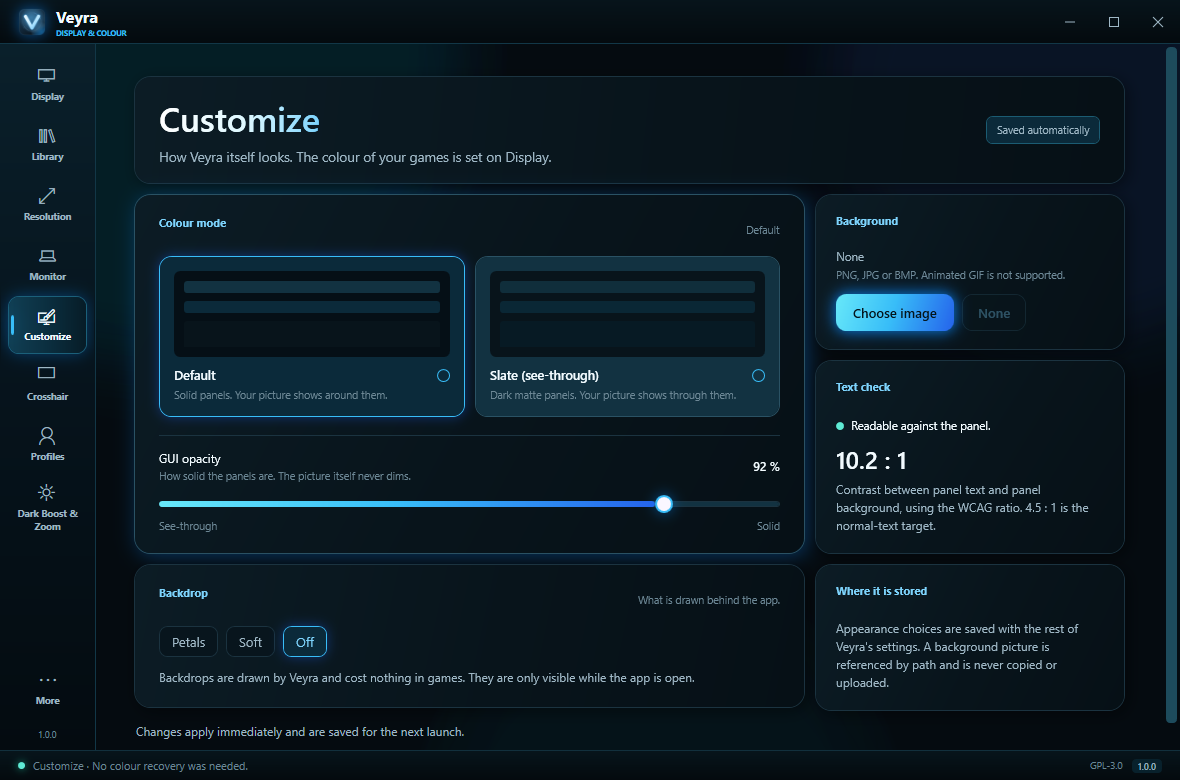
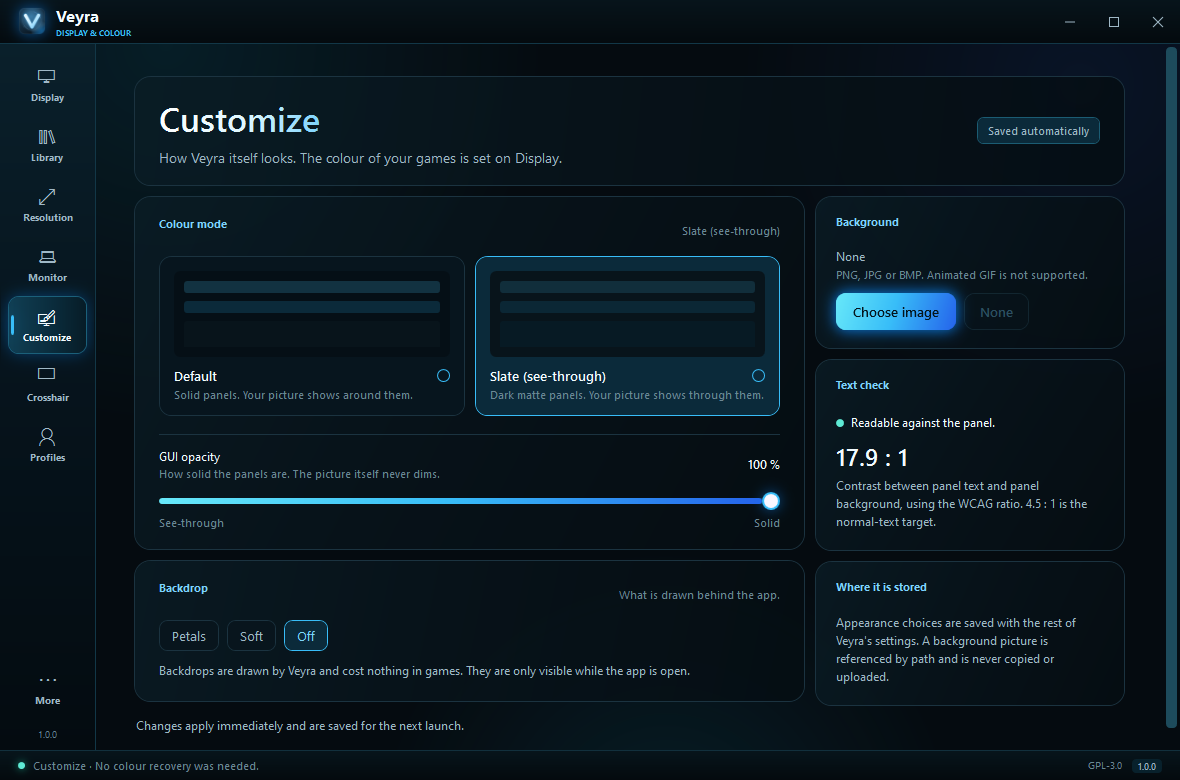
Document the eight-page release and publish installer assets
Update the README and v1.0.0 notes for the eight-page app, refresh the UI screenshots, and make the release workflow build the MSI alongside the portable ZIP with clean checksums.

🤖 Generated with Codebuff

diff --git a/README.md b/README.md
@@ -20,6 +20,13 @@ into games or touch anti-cheat systems.
 
 </div>
 
+## Download
+
+[Portable ZIP](https://github.com/zenou101/veyra/releases/download/v1.0.0/Veyra-Portable-1.0.0-x64.zip) · [Installer MSI](https://github.com/zenou101/veyra/releases/download/v1.0.0/Veyra-Setup-1.0.0-x64.msi)
+
+Both builds are self-contained Windows x64. The installer is per-user and needs no administrator
+rights. Release binaries are unsigned and are published on GitHub Releases, not in the source tree.
+
 | Display | Library |
 | :---: | :---: |
 | ![Veyra Display](docs/screenshots/display.png) | ![Veyra Library](docs/screenshots/library.png) |
@@ -28,7 +35,7 @@ into games or touch anti-cheat systems.
 
 Veyra is a focused WPF app for Windows 10 x64. It detects the complete display setup,
 applies changes only when the driver accepts them, and keeps an exact snapshot so every
-change can be undone. A compact navigation sidebar keeps the nine pages within reach:
+change can be undone. A compact navigation sidebar keeps the eight pages within reach:
 
 - **Display** — driver saturation and Windows gamma side by side, brightness, contrast,
   temperature, blacks, highlights and red tint in one fine-tuning grid, plus scene presets.
@@ -42,8 +49,6 @@ change can be undone. A compact navigation sidebar keeps the nine pages within r
   backdrop, and a live text-contrast check.
 - **Crosshair** — a click-through layered window drawn by Windows, with no injection or hooks.
 - **Profiles** — named game profiles that store a look and apply it on request.
-- **Dark Boost & Zoom** — deepen shadows without flattening highlights, and scale Veyra's
-  interface from 80 % to 125 %.
 - **More** — startup and close behaviour, global hotkeys, provider status, licence and data
   location.
 
@@ -74,7 +79,7 @@ rollback if the app stops responding.
 | --- | --- |
 | Debug and Release builds (win-x64) | pass |
 | Unit tests (Core, Storage, Display, Games) | **57 passed, 0 failed** |
-| App launch, navigation and all nine pages | verified; screenshots above |
+| App launch, navigation and all eight pages | verified; screenshots above |
 | Windows gamma ramp write/read | accepted; ramp readback changed and restored |
 | AMD ADL2 saturation write/read | **verified 0–300 %**: 100 → 150 → 100 through the slider, bypass and restore |
 | AMD driver saturation crash recovery | **verified**: 170 % survived a killed process and was restored to 100 % on the next launch |
@@ -140,8 +145,8 @@ More detail: [ARCHITECTURE.md](ARCHITECTURE.md), [BUILDING.md](BUILDING.md),
 
 ## Known limitations
 
-- This source tree is **unsigned**; no installer or release binary is included in the repository.
-  SmartScreen will warn about locally built binaries.
+- Release binaries are **unsigned**; Windows SmartScreen will warn about them.
+  The source tree contains no release binary.
 - **NVIDIA** support is implemented but was not tested on NVIDIA hardware. **Intel** saturation is
   not implemented; Intel users get the Windows ramp controls only.
 - HDR capability is read and displayed, but HDR switching is not offered.

diff --git a/RELEASE_NOTES.md b/RELEASE_NOTES.md
@@ -7,8 +7,8 @@ game performs, and it does not inject into games or touch anti-cheat systems.
 
 ## Highlights
 
-- A compact navigation sidebar for nine pages: Display, Library, Resolution, Monitor,
-  Customize, Crosshair, Profiles, Dark Boost & Zoom, and More.
+- A compact navigation sidebar for eight pages: Display, Library, Resolution, Monitor,
+  Customize, Crosshair, Profiles, and More.
 - The original Veyra identity is intact: dark navy surfaces, cyan accents, glass cards,
   gradient titles, original buttons, sliders and toggles, hover motion, glows and rounded
   corners.
@@ -20,14 +20,23 @@ game performs, and it does not inject into games or touch anti-cheat systems.
   supports them, with one-click restore.
 - Customize offers Default and Slate panels, panel opacity, a background picture, a soft or
   petal backdrop, and a live text-contrast check.
-- Interface zoom from 80 % to 125 %, without clipping the page.
+
+## Fixed
+
+- Customize panel opacity and mode changes now update every card.
+- Resolution keeps the selected display and refreshes its current mode after applying a change.
+- Crisper UI text and lower rendering overhead from removing card-wide effects and blurred
+  background surfaces.
+- Driver badges and other dynamic labels no longer collide with adjacent text.
 
 ## Download
 
+- **`Veyra-Setup-1.0.0-x64.msi`** — per-user installer. Installs into `%LOCALAPPDATA%\Veyra`
+  with a Start-menu shortcut, without an administrator prompt.
 - **`Veyra-Portable-1.0.0-x64.zip`** — self-contained Windows x64 build. Extract it and run
   `Veyra.exe`; no installer or administrator rights are required.
 - **`SHA256SUMS.txt`** — checksums for the release assets. Verify with
-  `Get-FileHash .\Veyra-Portable-1.0.0-x64.zip -Algorithm SHA256` on Windows.
+  `Get-FileHash .\Veyra-Setup-1.0.0-x64.msi -Algorithm SHA256` or the same command for the ZIP.
 
 ## Requirements
 
@@ -39,7 +48,7 @@ The binaries are unsigned, so Windows SmartScreen may warn on first launch.
 ## Verification
 
 - 57 unit tests pass across Core, Storage, Display and Games.
-- All nine pages were launched and captured in the final UI.
+- All eight pages were launched and captured in the final UI.
 - Verified on an AMD Radeon RX 7800 XT, Ryzen 7 5700X, 16 GB RAM, Windows 10 22H2 x64.
 
 ## Known limitations
